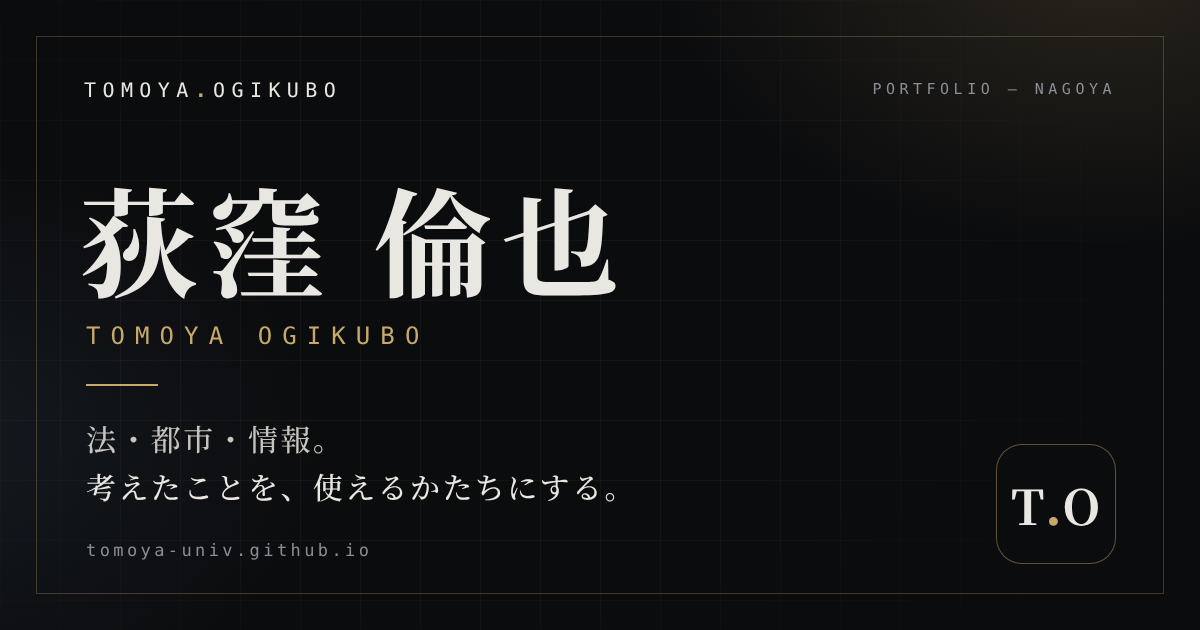
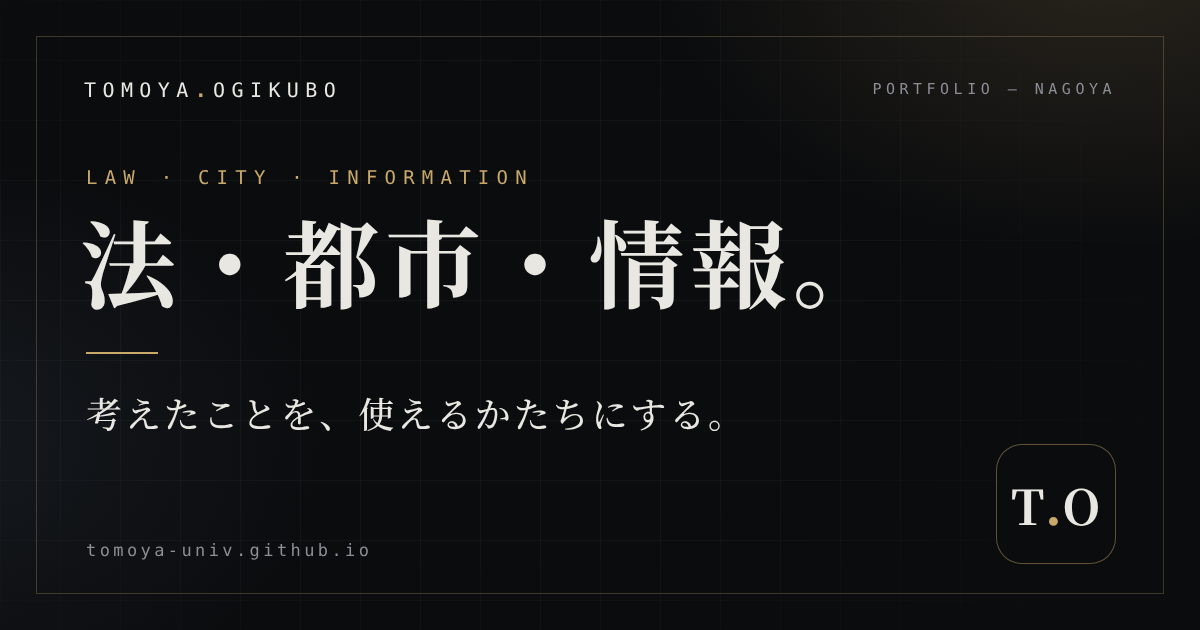
OGP: tagline-led design without large name
Claude-Session: https://claude.ai/code/session_018FxDjpvWqe2vagHd3vQ47X

diff --git a/approach.html b/approach.html
@@ -10,10 +10,10 @@
 <meta property="og:type" content="website">
 <meta property="og:url" content="https://tomoya-univ.github.io/approach.html">
 <meta property="og:site_name" content="Tomoya Ogikubo">
-<meta property="og:image" content="https://tomoya-univ.github.io/og.png">
+<meta property="og:image" content="https://tomoya-univ.github.io/og.png?v=2">
 <meta property="og:image:width" content="1200">
 <meta property="og:image:height" content="630">
-<meta property="og:image:alt" content="荻窪 倫也 — 法・都市・情報。考えたことを、使えるかたちにする。">
+<meta property="og:image:alt" content="法・都市・情報。考えたことを、使えるかたちにする。">
 <meta name="twitter:card" content="summary_large_image">
 <meta name="theme-color" content="#0b0c0e">
 <link rel="icon" type="image/svg+xml" href="favicon.svg">

diff --git a/contact.html b/contact.html
@@ -10,10 +10,10 @@
 <meta property="og:type" content="website">
 <meta property="og:url" content="https://tomoya-univ.github.io/contact.html">
 <meta property="og:site_name" content="Tomoya Ogikubo">
-<meta property="og:image" content="https://tomoya-univ.github.io/og.png">
+<meta property="og:image" content="https://tomoya-univ.github.io/og.png?v=2">
 <meta property="og:image:width" content="1200">
 <meta property="og:image:height" content="630">
-<meta property="og:image:alt" content="荻窪 倫也 — 法・都市・情報。考えたことを、使えるかたちにする。">
+<meta property="og:image:alt" content="法・都市・情報。考えたことを、使えるかたちにする。">
 <meta name="twitter:card" content="summary_large_image">
 <meta name="theme-color" content="#0b0c0e">
 <link rel="icon" type="image/svg+xml" href="favicon.svg">

diff --git a/privacy.html b/privacy.html
@@ -10,10 +10,10 @@
 <meta property="og:type" content="website">
 <meta property="og:url" content="https://tomoya-univ.github.io/privacy.html">
 <meta property="og:site_name" content="Tomoya Ogikubo">
-<meta property="og:image" content="https://tomoya-univ.github.io/og.png">
+<meta property="og:image" content="https://tomoya-univ.github.io/og.png?v=2">
 <meta property="og:image:width" content="1200">
 <meta property="og:image:height" content="630">
-<meta property="og:image:alt" content="荻窪 倫也 — 法・都市・情報。考えたことを、使えるかたちにする。">
+<meta property="og:image:alt" content="法・都市・情報。考えたことを、使えるかたちにする。">
 <meta name="twitter:card" content="summary_large_image">
 <meta name="theme-color" content="#0b0c0e">
 <link rel="icon" type="image/svg+xml" href="favicon.svg">

diff --git a/reserve.html b/reserve.html
@@ -10,10 +10,10 @@
 <meta property="og:type" content="website">
 <meta property="og:url" content="https://tomoya-univ.github.io/reserve.html">
 <meta property="og:site_name" content="Tomoya Ogikubo">
-<meta property="og:image" content="https://tomoya-univ.github.io/og.png">
+<meta property="og:image" content="https://tomoya-univ.github.io/og.png?v=2">
 <meta property="og:image:width" content="1200">
 <meta property="og:image:height" content="630">
-<meta property="og:image:alt" content="荻窪 倫也 — 法・都市・情報。考えたことを、使えるかたちにする。">
+<meta property="og:image:alt" content="法・都市・情報。考えたことを、使えるかたちにする。">
 <meta name="twitter:card" content="summary_large_image">
 <meta name="theme-color" content="#0b0c0e">
 <link rel="icon" type="image/svg+xml" href="favicon.svg">

diff --git a/about.html b/about.html
@@ -10,10 +10,10 @@
 <meta property="og:type" content="website">
 <meta property="og:url" content="https://tomoya-univ.github.io/about.html">
 <meta property="og:site_name" content="Tomoya Ogikubo">
-<meta property="og:image" content="https://tomoya-univ.github.io/og.png">
+<meta property="og:image" content="https://tomoya-univ.github.io/og.png?v=2">
 <meta property="og:image:width" content="1200">
 <meta property="og:image:height" content="630">
-<meta property="og:image:alt" content="荻窪 倫也 — 法・都市・情報。考えたことを、使えるかたちにする。">
+<meta property="og:image:alt" content="法・都市・情報。考えたことを、使えるかたちにする。">
 <meta name="twitter:card" content="summary_large_image">
 <meta name="theme-color" content="#0b0c0e">
 <link rel="icon" type="image/svg+xml" href="favicon.svg">

diff --git a/works.html b/works.html
@@ -10,10 +10,10 @@
 <meta property="og:type" content="website">
 <meta property="og:url" content="https://tomoya-univ.github.io/works.html">
 <meta property="og:site_name" content="Tomoya Ogikubo">
-<meta property="og:image" content="https://tomoya-univ.github.io/og.png">
+<meta property="og:image" content="https://tomoya-univ.github.io/og.png?v=2">
 <meta property="og:image:width" content="1200">
 <meta property="og:image:height" content="630">
-<meta property="og:image:alt" content="荻窪 倫也 — 法・都市・情報。考えたことを、使えるかたちにする。">
+<meta property="og:image:alt" content="法・都市・情報。考えたことを、使えるかたちにする。">
 <meta name="twitter:card" content="summary_large_image">
 <meta name="theme-color" content="#0b0c0e">
 <link rel="icon" type="image/svg+xml" href="favicon.svg">

diff --git a/404.html b/404.html
@@ -10,10 +10,10 @@
 <meta property="og:type" content="website">
 <meta property="og:url" content="https://tomoya-univ.github.io/404.html">
 <meta property="og:site_name" content="Tomoya Ogikubo">
-<meta property="og:image" content="https://tomoya-univ.github.io/og.png">
+<meta property="og:image" content="https://tomoya-univ.github.io/og.png?v=2">
 <meta property="og:image:width" content="1200">
 <meta property="og:image:height" content="630">
-<meta property="og:image:alt" content="荻窪 倫也 — 法・都市・情報。考えたことを、使えるかたちにする。">
+<meta property="og:image:alt" content="法・都市・情報。考えたことを、使えるかたちにする。">
 <meta name="twitter:card" content="summary_large_image">
 <meta name="theme-color" content="#0b0c0e">
 <link rel="icon" type="image/svg+xml" href="/favicon.svg">

diff --git a/index.html b/index.html
@@ -10,10 +10,10 @@
 <meta property="og:type" content="website">
 <meta property="og:url" content="https://tomoya-univ.github.io/">
 <meta property="og:site_name" content="Tomoya Ogikubo">
-<meta property="og:image" content="https://tomoya-univ.github.io/og.png">
+<meta property="og:image" content="https://tomoya-univ.github.io/og.png?v=2">
 <meta property="og:image:width" content="1200">
 <meta property="og:image:height" content="630">
-<meta property="og:image:alt" content="荻窪 倫也 — 法・都市・情報。考えたことを、使えるかたちにする。">
+<meta property="og:image:alt" content="法・都市・情報。考えたことを、使えるかたちにする。">
 <meta name="twitter:card" content="summary_large_image">
 <meta name="theme-color" content="#0b0c0e">
 <link rel="icon" type="image/svg+xml" href="favicon.svg">
